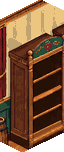
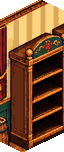
D1: nieuwe winkelachtergrond (plankhoogtes, vitrine, mat, achterwand donkerder, palet) + C5 feestbeeld als laag
Claude-Session: https://claude.ai/code/session_01QQjUtDqHRMDshLJRpoGrs7

diff --git a/assets/layers.js b/assets/layers.js
@@ -1,2 +1,2 @@
 // gegenereerd door tools/build_bg.py
-(window.CC = window.CC || {}).BG_LAYERS = {"shelf_4": {"x": 154, "y": 61}, "shelf_3": {"x": 417, "y": 61}, "table": {"x": 275, "y": 176}, "decor_lampjes": {"x": 158, "y": 29, "bulbs": [[266.7, 36.7], [318.4, 36.2], [370.9, 36.3], [382.4, 39.0], [283.3, 41.3], [302.5, 41.5], [334.5, 41.5], [355.5, 41.5], [378.5, 41.8], [394.2, 48.2], [383.9, 47.6], [253.9, 48.9], [404.3, 48.7], [410.6, 54.1], [244.5, 54.5], [400.6, 55.2], [224.9, 56.3], [234.5, 57.0], [404.0, 58.0], [422.5, 58.5], [416.3, 61.3], [425.0, 61.5], [219.9, 64.3], [422.0, 66.0], [433.0, 69.7], [212.0, 70.8], [445.7, 69.8], [454.2, 75.6], [204.3, 76.1], [444.1, 77.3], [182.7, 78.1], [192.9, 79.7], [463.0, 78.0], [461.9, 86.7], [175.9, 88.3], [474.0, 87.0], [474.6, 96.2], [165.0, 96.2]]}, "decor_olijf": {"x": 105, "y": 163}, "decor_monstera": {"x": 491, "y": 169}, "decor_stoepbord": {"x": 452, "y": 244}, "decor_terras": {"x": 173, "y": 258}};
+(window.CC = window.CC || {}).BG_LAYERS = {"shelf_4": {"x": 154, "y": 61}, "shelf_3": {"x": 417, "y": 61}, "table": {"x": 275, "y": 179}, "decor_lampjes": {"x": 158, "y": 29, "bulbs": [[266.7, 36.7], [318.4, 36.2], [370.9, 36.3], [382.4, 39], [283.3, 41.3], [302.5, 41.5], [334.5, 41.5], [355.5, 41.5], [378.5, 41.8], [394.2, 48.2], [383.9, 47.6], [253.9, 48.9], [404.3, 48.7], [410.6, 54.1], [244.5, 54.5], [400.6, 55.2], [224.9, 56.3], [234.5, 57], [404, 58], [422.5, 58.5], [416.3, 61.3], [425, 61.5], [219.9, 64.3], [422, 66], [433, 69.7], [212, 70.8], [445.7, 69.8], [454.2, 75.6], [204.3, 76.1], [444.1, 77.3], [182.7, 78.1], [192.9, 79.7], [463, 78], [461.9, 86.7], [175.9, 88.3], [474, 87], [474.6, 96.2], [165, 96.2]]}, "decor_olijf": {"x": 105, "y": 163}, "decor_monstera": {"x": 491, "y": 169}, "decor_stoepbord": {"x": 452, "y": 244}, "decor_terras": {"x": 173, "y": 258}};

diff --git a/src/config.js b/src/config.js
@@ -333,17 +333,19 @@
       decor_stoepbord: 'assets/layer_decor_stoepbord.png', decor_terras: 'assets/layer_decor_terras.png' },
     // plankniveaus per kast: y = c + slope * x (tools/measure_planks.py); vak A = rij 0–1, vak B = rij 2–3
     planks: {
-      shelf_1: { slope: 0.5, x0: 383, x1: 410, rows: [-84, -66, -48, -30] },
-      shelf_2: { slope: -0.5, x0: 229, x1: 255, rows: [236, 254, 272, 290] },
-      shelf_3: { slope: 0.5, x0: 425, x1: 452, rows: [-84, -66, -48, -30] },
-      shelf_4: { slope: -0.5, x0: 188, x1: 213, rows: [236, 254, 272, 290] },
+      // D1 (nieuwe achtergrond 2026-11-13): opnieuw gemeten; oud: shelf_1 383–410 [-84,-66,-48,-30], shelf_2 229–255 [236,254,272,290],
+      // shelf_3 425–452 [-84,-66,-48,-30], shelf_4 188–213 [236,254,272,290]
+      shelf_1: { slope: 0.5, x0: 381, x1: 410, rows: [-80, -62, -42, -24] },
+      shelf_2: { slope: -0.5, x0: 228, x1: 255, rows: [239, 258, 277, 296] },
+      shelf_3: { slope: 0.5, x0: 424, x1: 452, rows: [-82, -64, -44, -24] },
+      shelf_4: { slope: -0.5, x0: 186, x1: 213, rows: [237, 256, 275, 294] },
     },
     phone: { x: 284, y: 116, w: 26, h: 22 },
     register: { x: 326, y: 108, w: 30, h: 32 },
     counterOutline: { x: 276, y: 128, w: 90, h: 44 },
     tableTop: { cx: 324, cy: 205 },
     // Vitrine (besluit 62): houten trapje op de tafel, gemeten in bg_start.png. Voetpunten van de flessen per trede.
-    vitrine: { top: [[323, 186], [331, 188], [339, 190]], low: [[311, 198], [319, 200], [327, 202]], flame: { x: 353, y: 180 } },
+    vitrine: { top: [[319, 192], [327, 194], [335, 196]], low: [[307, 204], [315, 206], [323, 208]], flame: { x: 348, y: 183 } },   // D1: trapje (-4,+6), kaars (-5,+3) t.o.v. de oude achtergrond
     sign: { x: 285, y: 49 },
   };
 

diff --git a/tools/build_bg.py b/tools/build_bg.py
@@ -38,9 +38,9 @@ def load(p):
 SRC_VITRINE = os.path.join(ROOT, 'art_bronnen', 'bg_vitrine_bron.png')
 _T = lambda pts: [(765 + x / 5, 460 + y / 5) for x, y in pts]
 VITRINE_PARTS = [
-    (_T([(145, 122), (272, 64), (606, 212), (590, 300), (620, 360), (620, 460), (412, 548), (385, 545), (380, 500), (75, 405), (55, 390), (52, 288), (150, 245)]), (18, -12)),   # trapje
+    (_T([(145, 122), (272, 64), (606, 212), (590, 300), (620, 360), (620, 460), (412, 548), (385, 545), (380, 500), (75, 405), (55, 390), (52, 288), (150, 245)]), (8, 4)),   # trapje (D1: was (18, -12); de nieuwe tafel is minder diep)
     (_T([(765, 70), (780, 70), (790, 150), (815, 190), (815, 320), (845, 335), (835, 360), (810, 380), (815, 500), (855, 530), (855, 560), (800, 595), (720, 590),
-         (680, 555), (685, 520), (735, 495), (735, 375), (705, 345), (710, 325), (735, 315), (735, 195), (755, 150)]), (4, -12)),   # kaars
+         (680, 555), (685, 520), (735, 495), (735, 375), (705, 345), (710, 325), (735, 315), (735, 195), (755, 150)]), (-8, -4)),   # kaars (D1: was (4, -12))
 ]
 
 # Deurmat (2026-09-28): het chique matje (bordeaux, gouden rand, lelie) uit bg_matje_bron.png, een
@@ -48,9 +48,9 @@ VITRINE_PARTS = [
 # affien op het oude matje in bg_start_bron.png gelegd; +MAT_DIK bronpixels onder de mat voor de dikte.
 SRC_MAT = os.path.join(ROOT, 'art_bronnen', 'bg_matje_bron.png')
 MAT_SRC = [(833.75, 715.75), (918, 672.5), (973.75, 701.25), (887.5, 742.5)]   # L, T, R, B in bg_matje_bron.png
-MAT_DST = [(903.75, 780.5), (999.5, 731.25), (1057.5, 768.75), (965, 812.5)]   # L, T, R, B in bg_start_bron.png
+MAT_DST = [(896, 785), (1000, 729), (1070, 767), (960, 818)]   # L, T, R, B in bg_start_bron.png (D1: op het matje van de nieuwe achtergrond; was (903.75, 780.5), (999.5, 731.25), (1057.5, 768.75), (965, 812.5))
 MAT_DIK = 3
-MAT_FLOOR_SHIFT = (-130, 63)   # vloer om het oude matje mee te bedekken: zoveel bronpixels langs de planken verschoven
+MAT_FLOOR_SHIFT = None   # D1: het nieuwe matje valt precies over het geschilderde, dus niets weg te werken. Was (-130, 63): vloer om het oude matje mee te bedekken: zoveel bronpixels langs de planken verschoven
 
 def paste_mat(base):
     if not os.path.exists(SRC_MAT): return base
@@ -59,13 +59,14 @@ def paste_mat(base):
     cx = np.linalg.solve(A, [p[0] for p in MAT_SRC[:3]]); cy = np.linalg.solve(A, [p[1] for p in MAT_SRC[:3]])
     warped = mat.transform(base.size, Image.AFFINE, (*cx, *cy), resample=Image.BICUBIC)
     L, T, R, B = MAT_DST; d = MAT_DIK * 1.2
-    # eerst het oude matje wegwerken: vloer van verderop langs de planken (zelfde afstand tot de vloerrand)
-    old = Image.new('L', base.size, 0)
-    Ro = (R[0] + 5, R[1])   # het oude matje steekt rechts iets verder uit dan het nieuwe
-    ImageDraw.Draw(old).polygon([L, T, Ro, (Ro[0], Ro[1] + d), (B[0], B[1] + d), (L[0], L[1] + d)], fill=255)
-    old = old.filter(ImageFilter.MaxFilter(9))
-    floor = Image.new('RGB', base.size); floor.paste(base, MAT_FLOOR_SHIFT)
-    base = Image.composite(floor, base, old)
+    if MAT_FLOOR_SHIFT is not None:
+        # eerst het oude matje wegwerken: vloer van verderop langs de planken (zelfde afstand tot de vloerrand)
+        old = Image.new('L', base.size, 0)
+        Ro = (R[0] + 5, R[1])   # het oude matje steekt rechts iets verder uit dan het nieuwe
+        ImageDraw.Draw(old).polygon([L, T, Ro, (Ro[0], Ro[1] + d), (B[0], B[1] + d), (L[0], L[1] + d)], fill=255)
+        old = old.filter(ImageFilter.MaxFilter(9))
+        floor = Image.new('RGB', base.size); floor.paste(base, MAT_FLOOR_SHIFT)
+        base = Image.composite(floor, base, old)
     m = Image.new('L', base.size, 0)
     ImageDraw.Draw(m).polygon([L, T, R, (R[0], R[1] + d), (B[0], B[1] + d), (L[0], L[1] + d)], fill=255)
     return Image.composite(warped, base, m.filter(ImageFilter.MaxFilter(3)))
@@ -102,11 +103,36 @@ def poly_mask(pts, grow=0):
     if grow: m = m.filter(ImageFilter.MaxFilter(grow))
     return np.array(m) > 0
 
-full_raw = load(SRC_FULL)
+# D1 (2026-11-13): achterwand van de kasten donkerder, zodat de flessen afsteken. Plankmaten uit config.js (CC.BG.planks);
+# per vak alleen de donkere pixels boven elke plank (de lichte plankranden blijven). BACK_DARK = 1 zet het uit.
+BACK_DARK, BACK_MAXL = 0.7, 75
+def planks_from_config():
+    import re
+    t = open(os.path.join(ROOT, 'src', 'config.js'), encoding='utf-8').read()
+    out = {}
+    for m in re.finditer(r"(shelf_\d): \{ slope: (-?[\d.]+), x0: (\d+), x1: (\d+), rows: \[([^\]]+)\]", t):
+        out[m.group(1)] = (float(m.group(2)), int(m.group(3)), int(m.group(4)), [float(v) for v in m.group(5).split(',')])
+    return out
+def darken_backs(im, names):
+    if BACK_DARK >= 1: return im
+    a = np.array(im).astype(float); L = a @ [0.299, 0.587, 0.114]
+    for name, (sl, x0, x1, rows) in planks_from_config().items():
+        if name not in names: continue
+        for r in rows:
+            for x in range(x0, x1 + 1):
+                yb = int(round(r + sl * x))
+                for y in range(yb - 16, yb - 1):
+                    if 0 <= y < H and L[y, x] < BACK_MAXL: a[y, x] *= BACK_DARK
+    return Image.fromarray(np.clip(a, 0, 255).astype(np.uint8))
+
+full_raw = darken_backs(load(SRC_FULL), ('shelf_1', 'shelf_2', 'shelf_3', 'shelf_4'))
 start_raw, VIT_MASK = load_start()
+start_raw = darken_backs(start_raw, ('shelf_1', 'shelf_2'))
 full, start = dampen(full_raw), dampen(start_raw)
 # Eén gedeeld palet (64 kleuren, geen dithering): harde pixels en identieke kleuren in alle lagen
-pal = full.quantize(64, method=Image.Quantize.MEDIANCUT, dither=Image.Dither.NONE)
+# D1: palet uit eindfase + startbeeld samen, anders mist het de kleuren van het matje en de vitrine (alleen in het startbeeld)
+_both = Image.new('RGB', (W * 2, H)); _both.paste(full, (0, 0)); _both.paste(start, (W, 0))
+pal = _both.quantize(64, method=Image.Quantize.MEDIANCUT, dither=Image.Dither.NONE)
 fq = full.quantize(palette=pal, dither=Image.Dither.NONE).convert('RGB')
 sq = start.quantize(palette=pal, dither=Image.Dither.NONE).convert('RGB')
 sq.save(os.path.join(OUT, 'bg_start.png'))
@@ -155,10 +181,14 @@ if os.path.exists(SRC_FASE3) and os.path.exists(SRC_FASEBASIS):
             sh = fb.copy(); sh.paste(f3.crop((x0, y0, x1, y1)), (x0 + dx, y0 + dy), Image.fromarray((m[y0:y1, x0:x1] * 255).astype(np.uint8)))
             src = sh; m = np.roll(np.roll(m, dy, 0), dx, 1)
         mk = np.array(Image.fromarray((m * 255).astype(np.uint8)).resize((W, H), Image.BOX)) > 110
-        img = dampen(src.resize((W, H), Image.LANCZOS)).quantize(palette=pal, dither=Image.Dither.NONE).convert('RGB')
+        img_raw = dampen(src.resize((W, H), Image.LANCZOS))
+        img = img_raw.quantize(palette=pal, dither=Image.Dither.NONE).convert('RGB')
         save_layer(np.array(img), mk, 'decor_' + name, layers)
-        if name == 'lampjes':   # lampjes: heldere stippen → posities voor de twinkeling
-            lay = np.array(img).astype(int); br = (lay.sum(2) >= 590) & (lay[..., 2] < 0.8 * lay[..., 0]) & mk
+        BULBS = os.path.join(ROOT, 'tools', 'lampjes_bulbs.json')
+        if name == 'lampjes' and os.path.exists(BULBS):   # D1: vaste posities (38), gemeten op de laag; de laag zelf verandert niet van plek
+            layers['decor_lampjes']['bulbs'] = json.load(open(BULBS))
+        elif name == 'lampjes':   # lampjes: heldere stippen → posities voor de twinkeling
+            lay = np.array(img_raw).astype(int); br = (lay.sum(2) >= 590) & (lay[..., 2] < 0.8 * lay[..., 0]) & mk
             lab, n = ndimage.label(ndimage.binary_dilation(br, iterations=1))
             layers['decor_lampjes']['bulbs'] = [[round(float(c[1]), 1), round(float(c[0]), 1)] for c in ndimage.center_of_mass(br, lab, range(1, n + 1))]
     # Tegels voor het niveauscherm ("Nieuwe aankleding"), scherp uit de bron: fase 2 = olijf + monstera, fase 3 = terras

diff --git a/tools/build_feest.py b/tools/build_feest.py
@@ -1,0 +1,107 @@
+# Château Cashflow — feestbeeld schuldenvrij als lagen (haak C5).
+# Het oude assets/schuldenvrij.png was een lichte herschildering van de hele winkel (zachter logo, bleke flessen).
+# Nu: alleen de feestvoorwerpen uit de bron (slingers, ballonnen, fles en glazen, confetti), als één doorzichtige
+# laag van 640 × 360 die main.js over de gewone winkel legt. Logo, kasten en flessen blijven dus scherp.
+#
+# Bron:    art_bronnen/schuldenvrij_bron.png (1672 × 941), geschilderd op de OUDE eindfase-achtergrond;
+#          art_bronnen/_oud_2026-11-13/bg_eindfase_bron.png als vergelijking (wat er anders is = feest).
+# Uitvoer: assets/schuldenvrij.png (RGBA, alleen de feestvoorwerpen ondoorzichtig)
+# Draaien: python tools/build_feest.py   (na build_bg.py)
+import os
+import numpy as np
+from PIL import Image, ImageDraw, ImageFilter
+from scipy import ndimage
+
+ROOT = os.path.dirname(os.path.dirname(os.path.abspath(__file__)))
+SRC = os.path.join(ROOT, 'art_bronnen', 'schuldenvrij_bron.png')
+REF = os.path.join(ROOT, 'art_bronnen', '_oud_2026-11-13', 'bg_eindfase_bron.png')
+LAMPJES = os.path.join(ROOT, 'assets', 'layer_decor_lampjes.png')
+OUT = os.path.join(ROOT, 'assets', 'schuldenvrij.png')
+W, H = 640, 360
+SW, SH = 1672, 941
+K = SW / W
+FLOOR = [(96, 94), (262, 14), (372, 14), (539, 94), (539, 233), (317, 349), (95, 237)]   # ROOM uit build_bg.py
+FLOOR_TOP = 150   # confetti alleen op de vloer (onder de toonbank), in 640-pixels
+
+# vakken in bronpixels (x0, y0, x1, y1) waarbinnen het verschil met de oude achtergrond een feestvoorwerp is
+BOXES = {
+    'slinger_links':  (430, 120, 720, 262),
+    'slinger_rechts': (980, 110, 1262, 252),
+    'ballonnen':      (900, 200, 990, 385),
+    'fles':           (774, 460, 807, 553),
+}
+# links hangen de lampjes in de bron hoger dan in de lampjeslaag: daar een bovengrens langs de slinger zelf
+SLINGER_LINKS_TOP = [(430, 195), (495, 204), (555, 186), (595, 174), (630, 159), (665, 132), (720, 132)]
+# de glazen staan vóór het trapje: alleen de kelken, de voetjes en het dienblad (bronpixels)
+GLAZEN = [('rect', (815, 504, 831, 556)), ('rect', (835, 504, 850, 556)), ('rect', (853, 504, 869, 556)),
+          ('ellipse', (801, 539, 883, 566))]
+
+src = Image.open(SRC).convert('RGB'); ref = Image.open(REF).convert('RGB')
+assert src.size == ref.size == (SW, SH)
+A = np.array(src.filter(ImageFilter.GaussianBlur(1.2))).astype(int)
+B = np.array(ref.filter(ImageFilter.GaussianBlur(1.2))).astype(int)
+diff = np.abs(A - B).sum(2)
+S = np.array(src).astype(int)
+
+# de lampjes zitten al in de lampjeslaag: niet nog eens meenemen
+lampjes = np.zeros((SH, SW), bool)
+if os.path.exists(LAMPJES):
+    import json
+    lay = json.load(open(os.path.join(ROOT, 'assets', 'layers.json')))['decor_lampjes']
+    la = np.array(Image.open(LAMPJES).convert('RGBA'))[..., 3] > 0
+    full = np.zeros((H, W), bool); full[lay['y']:lay['y'] + la.shape[0], lay['x']:lay['x'] + la.shape[1]] = la
+    lampjes = np.array(Image.fromarray(full.astype(np.uint8) * 255).resize((SW, SH), Image.NEAREST)) > 0
+    lampjes = ndimage.binary_dilation(lampjes, iterations=4)
+
+def clean(m, keep=0.04, fill=True):
+    m = ndimage.binary_opening(m, iterations=1)
+    lab, n = ndimage.label(m)
+    if n == 0: return m
+    sz = ndimage.sum(m, lab, range(1, n + 1))
+    m = np.isin(lab, [i + 1 for i, a in enumerate(sz) if a >= keep * max(sz)])
+    m = ndimage.binary_closing(m, iterations=2) | m
+    return ndimage.binary_fill_holes(m) if fill else m
+
+mask = np.zeros((SH, SW), bool)
+for name, (x0, y0, x1, y1) in BOXES.items():
+    m = np.zeros((SH, SW), bool); m[y0:y1, x0:x1] = diff[y0:y1, x0:x1] > 70
+    if name == 'slinger_rechts': m &= ~lampjes
+    if name == 'slinger_links':
+        t = Image.new('L', (SW, SH), 0); ImageDraw.Draw(t).polygon(SLINGER_LINKS_TOP + [(x1, y1), (x0, y1)], fill=255)
+        m &= np.array(t) > 0
+    mask |= clean(m, keep=0.02 if name.startswith('slinger') else 0.1)
+g = Image.new('L', (SW, SH), 0); d = ImageDraw.Draw(g)
+for kind, box in GLAZEN: (d.rectangle if kind == 'rect' else d.ellipse)(box, fill=255)
+mask |= clean((np.array(g) > 0) & (diff > 50), keep=0.02)
+
+# naar 640 × 360: voorvermenigvuldigd verkleinen, dan harde rand (alfa ≥ 0,5)
+rgba = np.zeros((SH, SW, 4), np.uint8); rgba[..., :3] = S; rgba[..., 3] = mask * 255
+pre = rgba.astype(float); pre[..., :3] *= pre[..., 3:4] / 255
+small = np.array(Image.fromarray(pre[..., :3].astype(np.uint8)).resize((W, H), Image.BOX)).astype(float)
+alpha = np.array(Image.fromarray(rgba[..., 3]).resize((W, H), Image.BOX)).astype(float)
+keep = alpha >= 128
+col = np.zeros((H, W, 3)); col[keep] = small[keep] * 255 / alpha[keep, None]
+
+# confetti: kleine goudgele snippers op de vloer die in de oude achtergrond niet lagen → 2 × 2 pixels
+fl = Image.new('L', (W, H), 0); ImageDraw.Draw(fl).polygon(FLOOR, fill=255)
+floor = np.array(fl.resize((SW, SH), Image.NEAREST)) > 0
+floor[:int(FLOOR_TOP * K)] = False
+gold = (S[..., 0] > 190) & (S[..., 1] > 140) & (S[..., 2] < 120) & (diff > 60) & floor & ~mask
+lab, n = ndimage.label(gold)
+sz = ndimage.sum(gold, lab, range(1, n + 1))
+conf = []
+for i, c in enumerate(ndimage.center_of_mass(gold, lab, range(1, n + 1))):
+    if 3 <= sz[i] <= 70:
+        x, y = int(c[1] / K), int(c[0] / K)
+        if 0 <= x < W - 1 and 0 <= y < H - 1 and not keep[y:y + 2, x:x + 2].any():
+            pix = S[lab == i + 1].mean(0); conf.append((x, y, pix))
+for x, y, pix in conf:
+    keep[y:y + 2, x:x + 2] = True; col[y:y + 2, x:x + 2] = pix
+    col[y + 1, x:x + 2] *= 0.8   # onderkant iets donkerder: een snipper, geen stip
+
+# eigen palet (de feestkleuren zitten niet in het achtergrondpalet), harde pixels, geen dithering
+q = Image.fromarray(np.clip(col, 0, 255).astype(np.uint8)).quantize(32, method=Image.Quantize.MEDIANCUT, dither=Image.Dither.NONE).convert('RGB')
+out = np.zeros((H, W, 4), np.uint8); out[..., :3] = np.array(q); out[..., 3] = keep * 255
+out[~keep, :3] = 0
+Image.fromarray(out).save(OUT, optimize=True)
+print('feest:', int(keep.sum()), 'px, confetti', len(conf), '→', os.path.relpath(OUT, ROOT))

diff --git a/tools/build_voorgrond.py b/tools/build_voorgrond.py
@@ -24,7 +24,7 @@ for name, (x0, y0, x1, y1) in BOXES.items():
     m = lum[y0:y1, x0:x1] < DARK
     lab, n = ndimage.label(m)
     sz = ndimage.sum(m, lab, range(1, n + 1)); m = lab == (np.argmax(sz) + 1)   # alleen het voorwerp zelf
-    m = ndimage.binary_closing(m, iterations=1) | m
+    m = ndimage.binary_closing(m, iterations=2 if name == 'lantaarn' else 1) | m   # D1: de nieuwe paal heeft lichtere glimplekken
     if not name.startswith('lantaarn'): m = ndimage.binary_fill_holes(m)
     mask[y0:y1, x0:x1] |= m
 out = im.copy(); out[~mask] = 0          # helemaal leeg buiten de voorwerpen (klein bestand)
